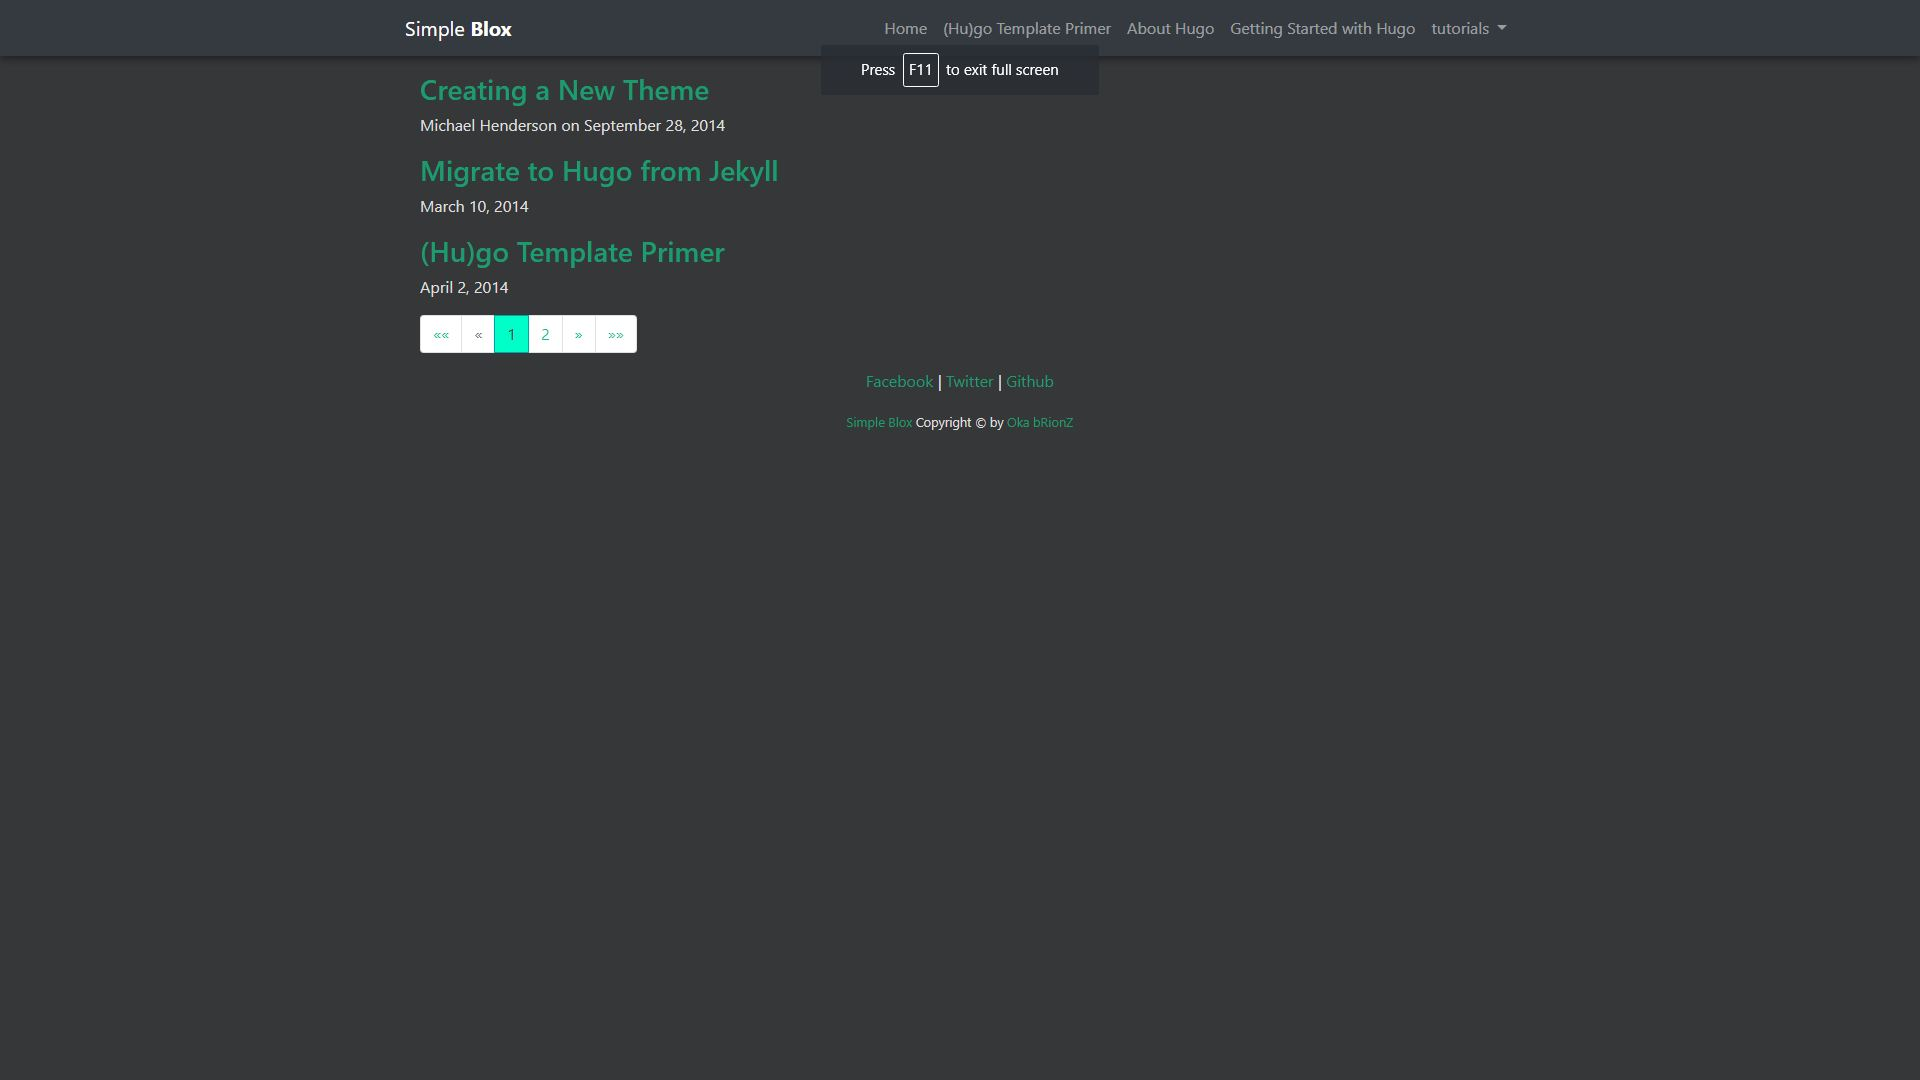
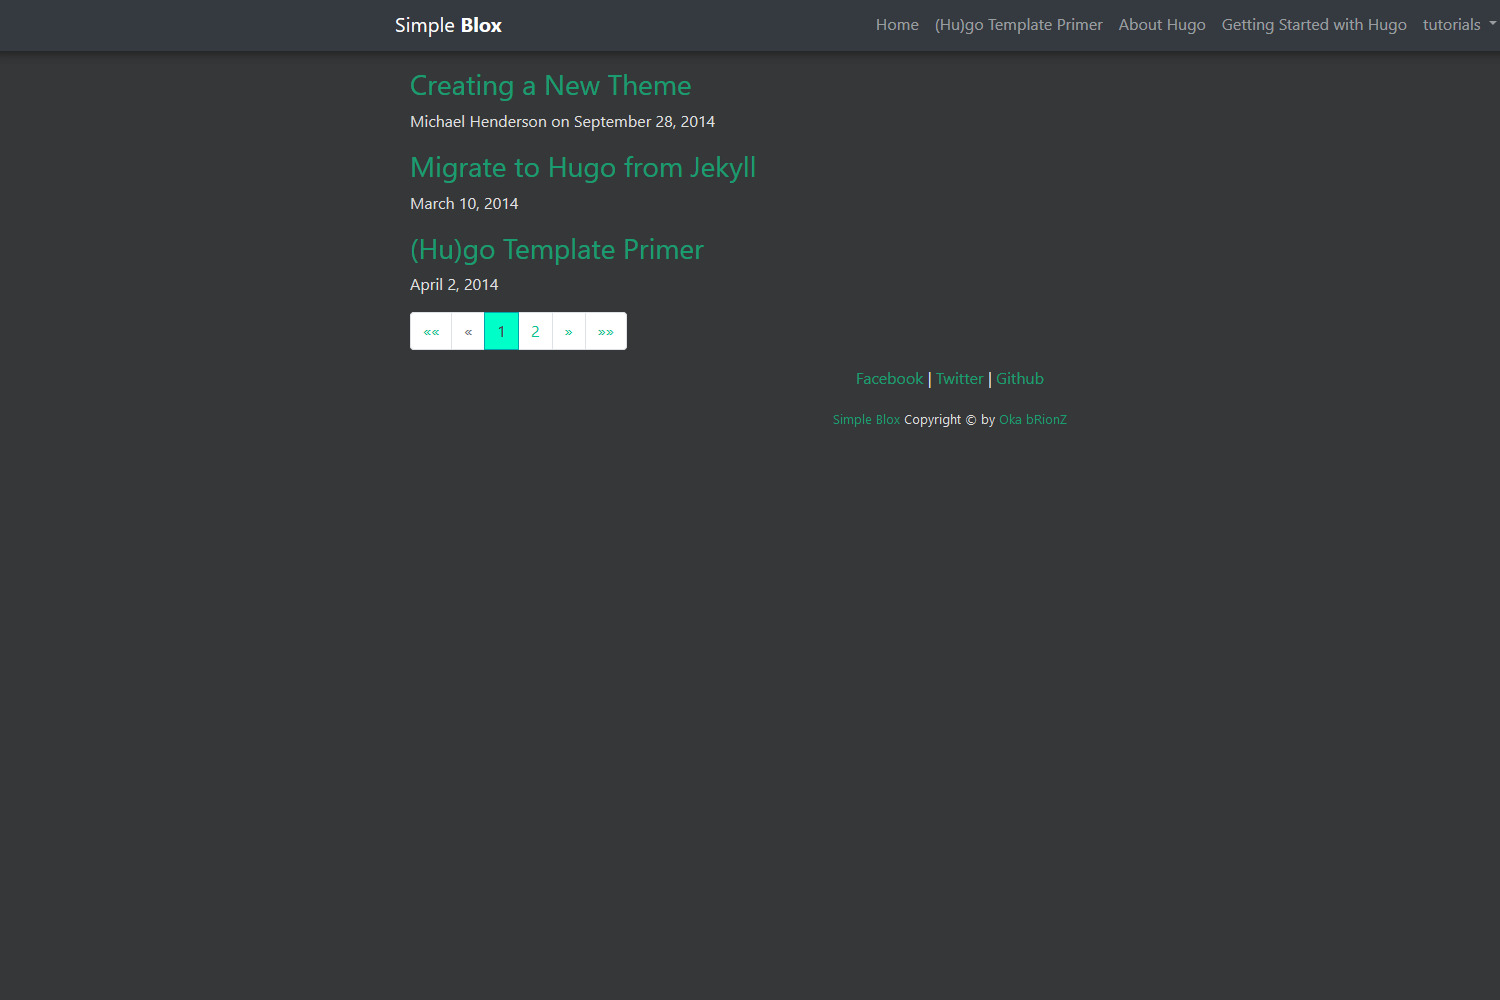
update screenshot and readme

diff --git a/README.md b/README.md
@@ -1,17 +1,18 @@
 # Simple Blox
-Simple and blazing fast Bootstrap 4 Theme for your blog.
+Simple and blazing fast Bootstrap 4 Theme for Your blog.
 
-build using Bootstrap 4.1.3
+Build using [Bootstrap 4.1.3](https://getbootstrap.com/) dedicated for [Hugo Themes](https://themes.gohugo.io/)
 
-![Hugo Artists Theme screenshot](https://raw.githubusercontent.com/okabrionz/simpleblox/master/images/screenshot.webp)
+![Hugo Simple Blox Theme](https://raw.githubusercontent.com/okabrionz/simpleblox/master/images/screenshot.jpg)
 
 
 ## Installation
 
 Inside the folder of your Hugo site run:
 
-    $ cd themes
-    $ git clone https://github.com/okabrionz/simpleblox
+    cd themes
+    git clone https://github.com/okabrionz/simpleblox
+    setup the *config* file like [here an example](#config-settings)
 
 For more information read the official [setup guide](//gohugo.io/overview/installing/) of Hugo.
 
@@ -28,7 +29,7 @@ Take a look inside the [`exampleSite`](//github.com/okabrionz/simpleblox/tree/ma
 ### Config Settings
 
 ```
-baseurl = "https://example.com/"
+baseurl = "/"
 title = "Your Website Title"
 author = "John Doe"
 copyright = "Copyright © 2008–2018, John Doe all rights reserved." #You can also use HTML code here.
@@ -47,3 +48,8 @@ github = "okabrionz"
     url = "/"
     weight = "-10"
 ```
+If You have any feature requests and ideas, please feel free to [submit new Issue](https://github.com/okabrionz/simpleblox/issues/new).
+
+Ready to rock?!
+
+[![Deploy to Netlify](https://www.netlify.com/img/deploy/button.svg)](https://app.netlify.com/start/deploy?repository=https://github.com/okabrionz/simplebloxDeploy)
